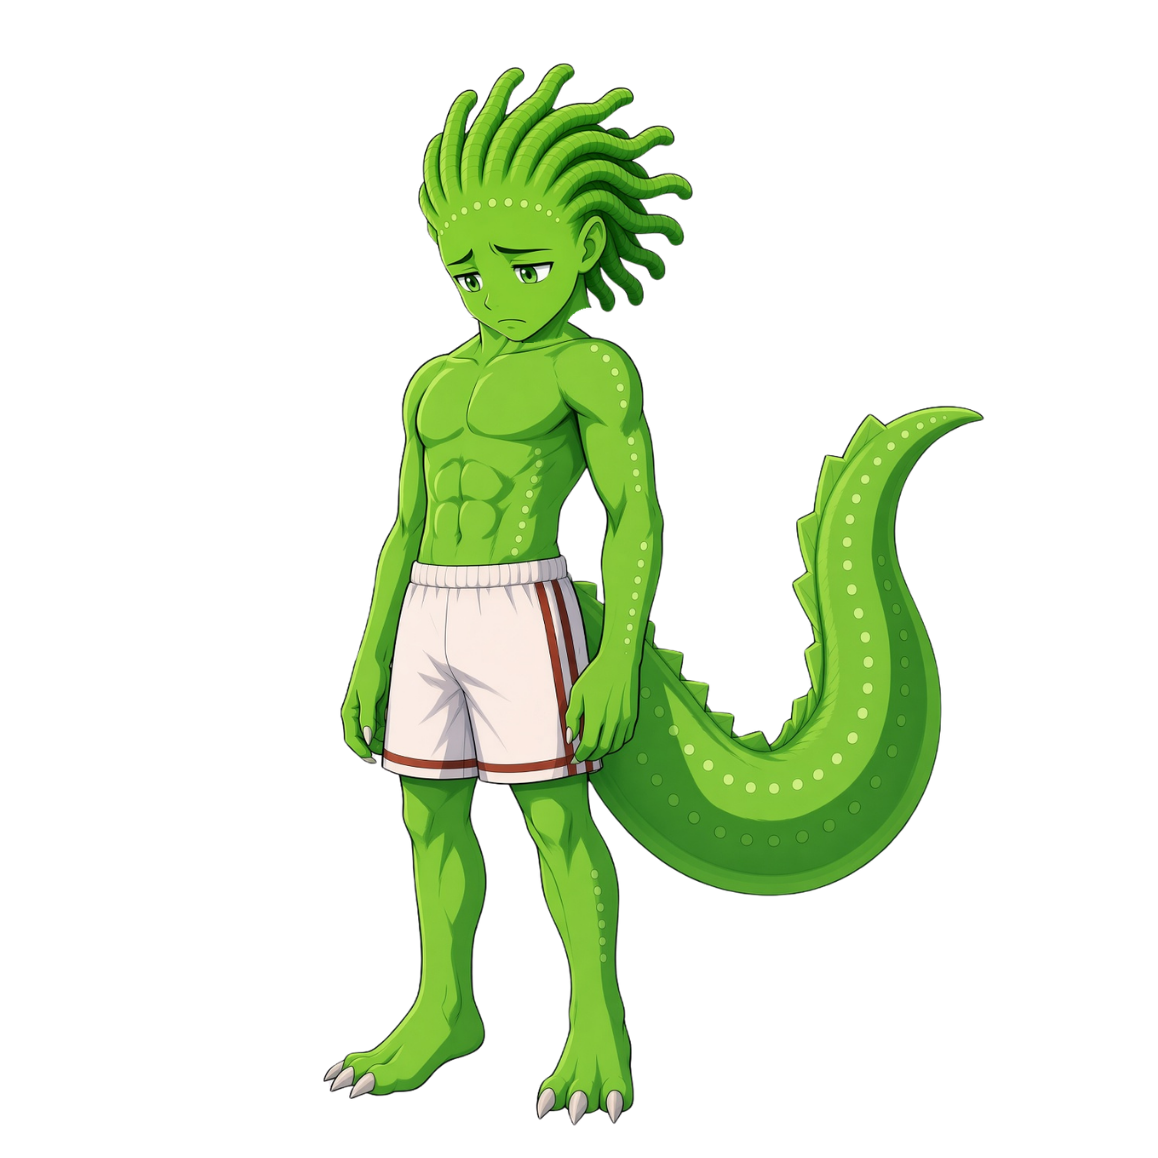
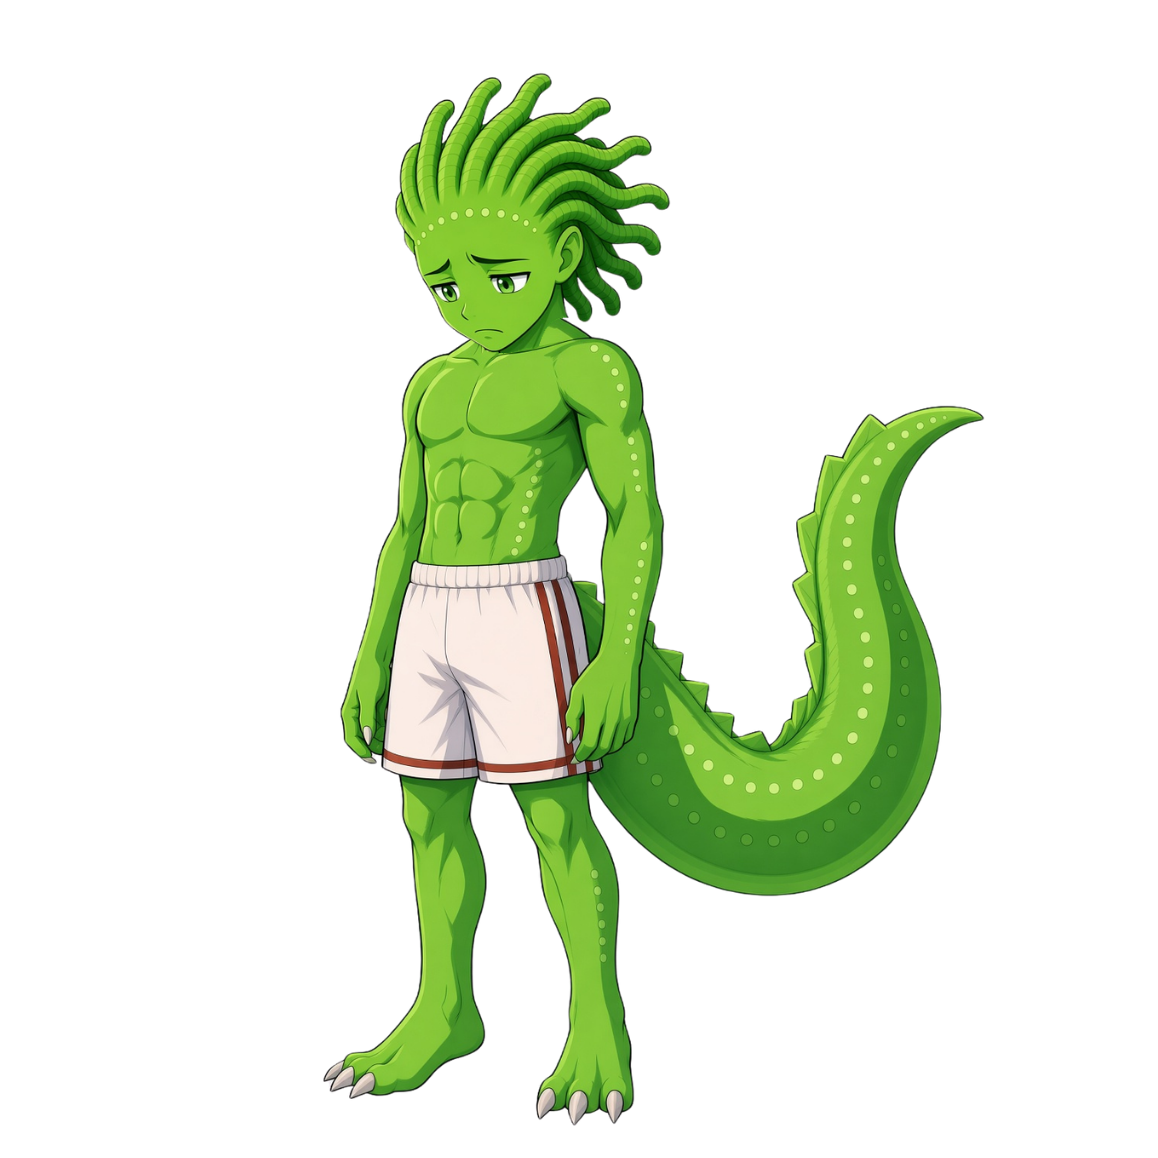
Sad pet: put his head back on his shoulders
The sad expression sprite is built by clearing the base body's rows above
the neck and compositing the head-only source art over the cut. Its
placement had been hand-tuned to "centre the chin over the neck", which
left the head 23px right and 3px high of where it belongs: the face sat
off the body's axis and the jaw landed above the cut, so the chin rested
straight on the collarbone with no neck under it. It read as pasted on.

Registered it against the base by alpha overlap the same way the happy
head already is - IoU 0.90 against the old 0.73 (happy manages 0.97; sad
falls short only because the pose really is drooped) - then nudged three
rows lower so the head fully covers the base's flat cut row: zero
uncovered edge pixels, down from six at the registration point. Widened
the crop a row on each side too; it had been clipping the source head's
true alpha bounds.

Changed region(s): [[0.342, 0.0311, 0.6218, 0.3109]]

diff --git a/scripts/make-pet-expressions.ts b/scripts/make-pet-expressions.ts
@@ -71,10 +71,19 @@ const EXPRESSIONS: Expression[] = [
         // chin let the base's throat shading bleed through and read as a double
         // jaw). The base is cut two rows lower than for happy so none of its own
         // chin outline peeks past the narrower sad jaw.
-        crop: { left: 372, top: 13, width: 275, height: 280 },
-        // Chin centred over the base neck (~48px right of where the source drew
-        // it; the face ends up a hair off the body's axis, which reads as the slump).
-        place: { left: 418, top: 63 },
+        // Crop is the source head's full alpha bounds (x 372..647, y 12..293) plus
+        // a row of margin; the stray speck sits at x~796, well outside it.
+        crop: { left: 371, top: 11, width: 278, height: 284 },
+        // Registered against the base head by alpha overlap, same as happy: this is
+        // the translation that best fits the base silhouette (IoU 0.90 - not 0.97
+        // like happy, because the pose really is drooped), nudged 3px lower so the
+        // head fully covers the base's flat cut row. An earlier hand-tune sat 23px
+        // right and 3px high of this, which slid the whole head off the body's axis
+        // and left the chin sitting on the collarbone with no neck under it - the
+        // head read as pasted on rather than attached. Keep any future nudge inside
+        // a couple of px of this registration; the slump has to come from the drawn
+        // face, not from displacing the head.
+        place: { left: 394, top: 71 },
         neckY: 317,
         featherFrom: 1,
     },
